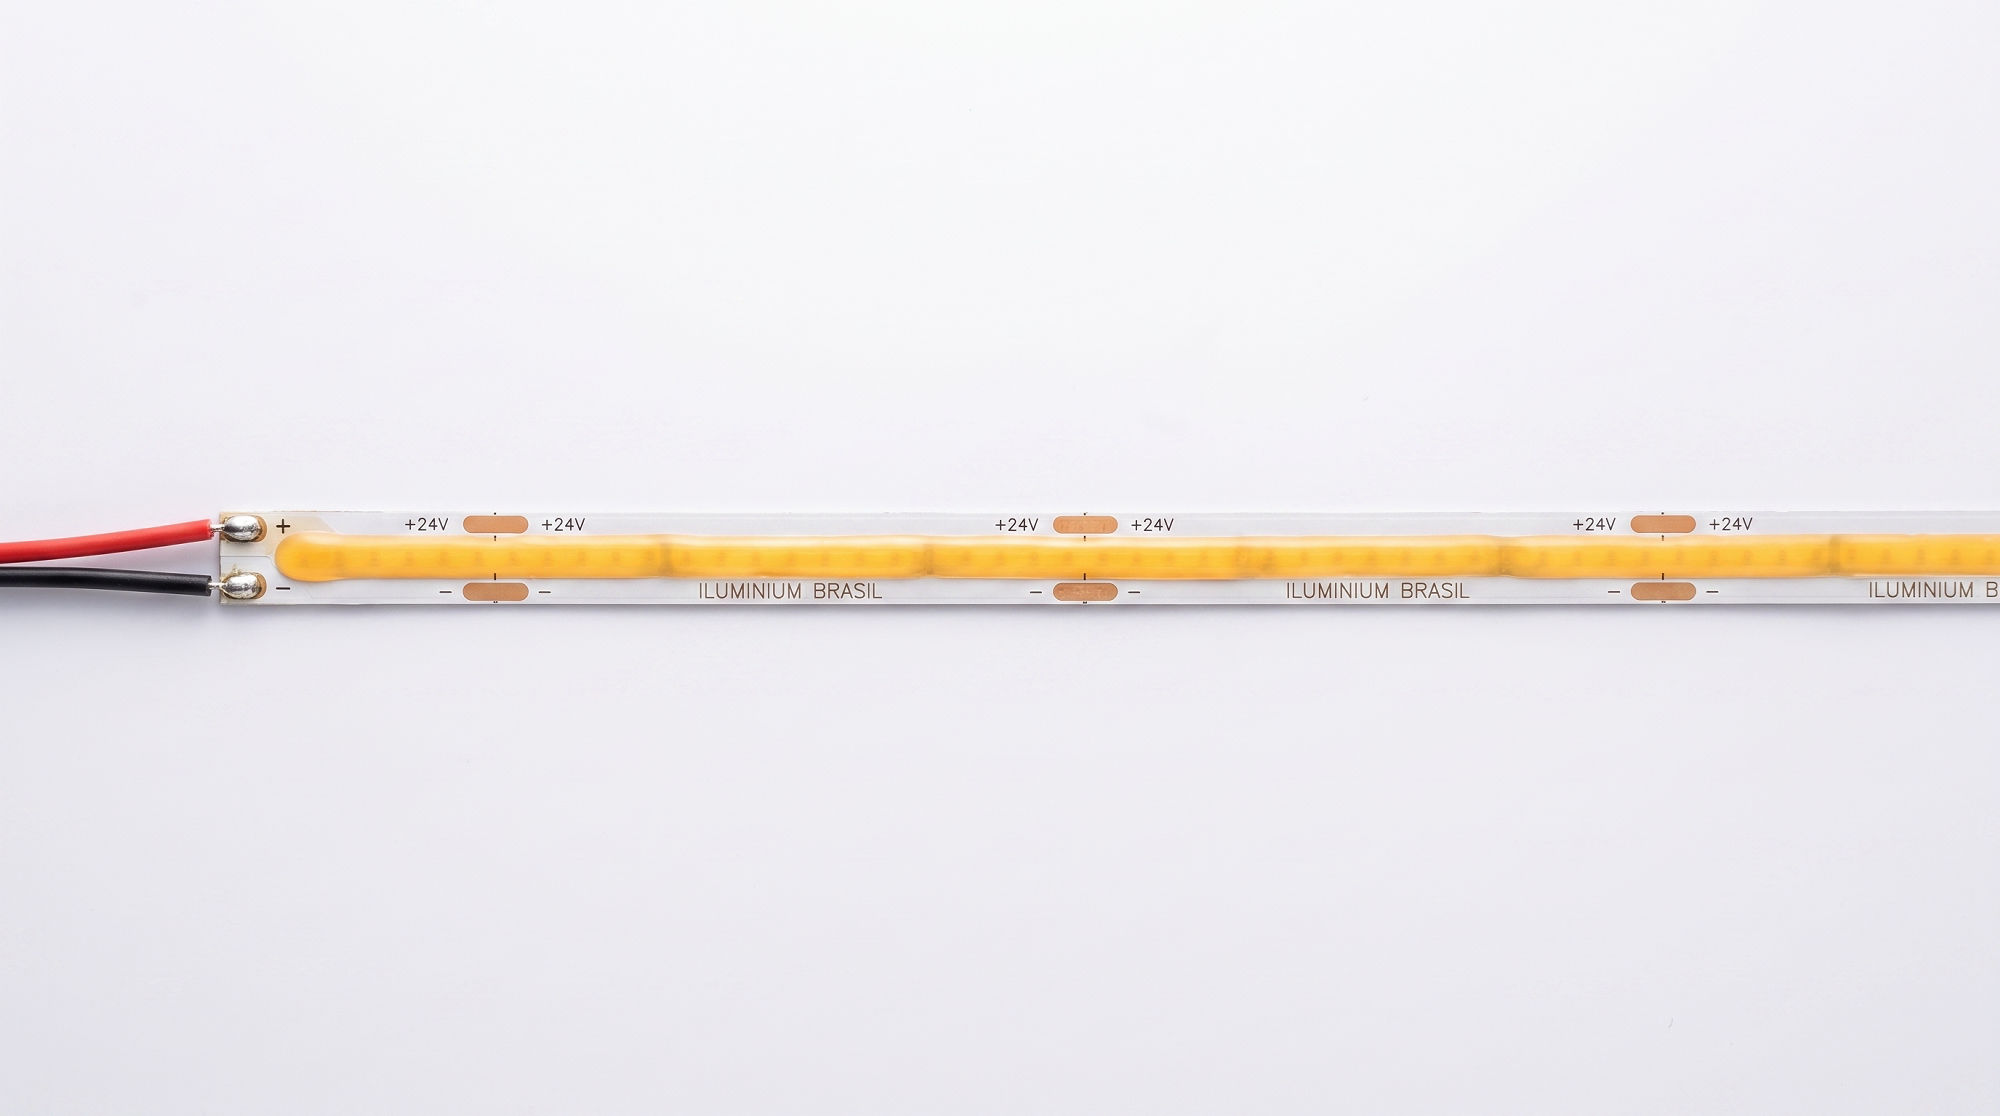
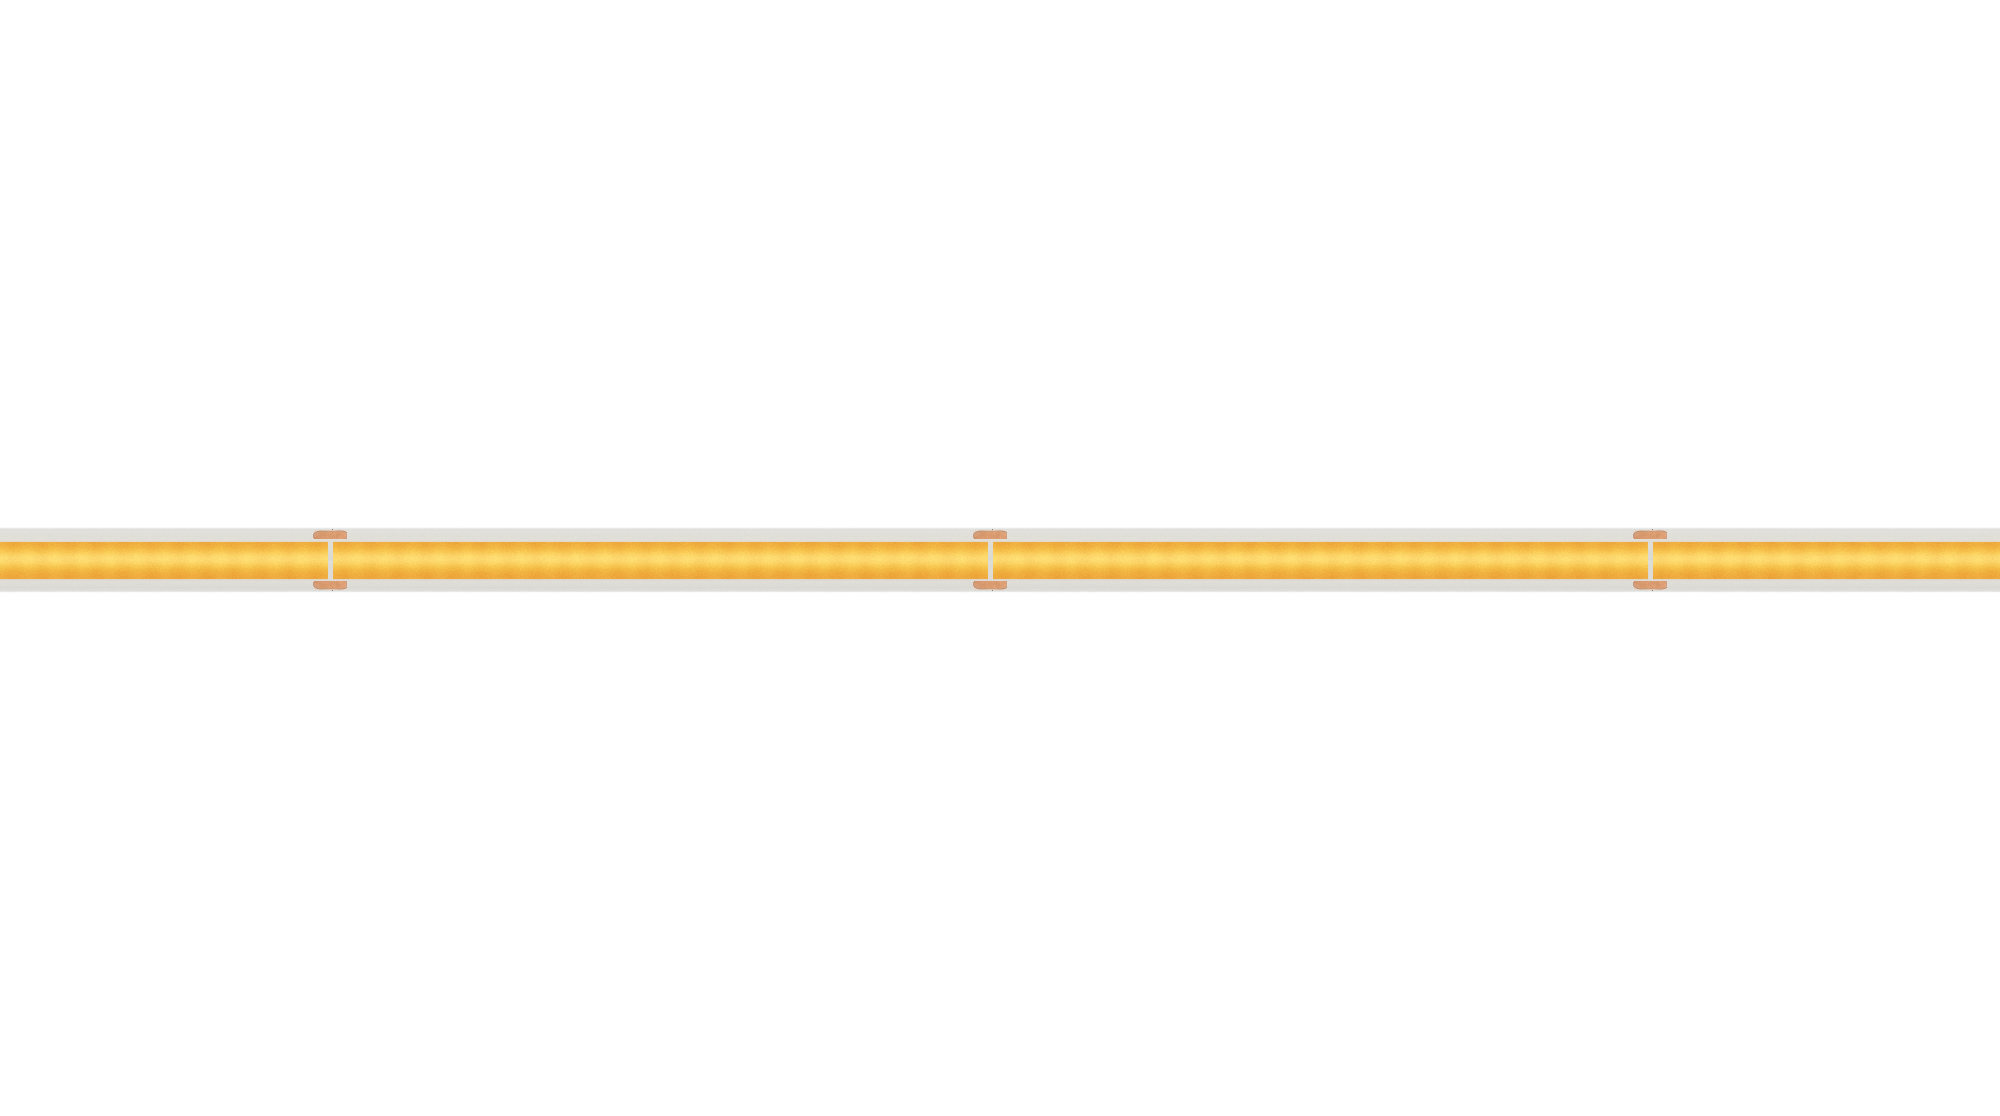
Fitas COB e de tomada: fotos refeitas na medida certa
Prisma (COB 3mm), Cristal (COB 5mm), Fulgor (120 LEDs 10mm) e Íris
(COB 10mm) montadas com peças da foto real do fornecedor, na largura
exata e na mesma escala das fitas 12V (LEDs a cada 8,3mm na Fulgor).
Sem tensão impressa nas de tomada (têm versão 110V e 220V). Cards da
lista no mesmo fundo cinza das outras fitas.

diff --git a/produtos/fitas-led.html b/produtos/fitas-led.html
@@ -210,7 +210,7 @@
       <a class="produto-card" href="fitas-led/3mm-cob.html">
         <div class="produto-media">
           
-          <img class="produto-photo crop-right" src="../images/produto-fita-3mm-cob.jpeg" alt="Fita LED 3mm COB" loading="lazy">
+          <img class="produto-photo" src="../images/produto-fita-3mm-cob-card.jpeg" alt="Fita LED 3mm COB" loading="lazy">
         </div>
         <div class="produto-body">
           <h3>Fita Prisma</h3>
@@ -221,7 +221,7 @@
       <a class="produto-card" href="fitas-led/5mm-cob.html">
         <div class="produto-media">
           
-          <img class="produto-photo crop-right" src="../images/produto-fita-5mm-cob.jpeg" alt="Fita LED 5mm COB" loading="lazy">
+          <img class="produto-photo" src="../images/produto-fita-5mm-cob-card.jpeg" alt="Fita LED 5mm COB" loading="lazy">
         </div>
         <div class="produto-body">
           <h3>Fita Cristal</h3>
@@ -240,7 +240,7 @@
       <a class="produto-card" href="fitas-led/220v-120-leds.html">
         <div class="produto-media">
           
-          <img class="produto-photo crop-right" src="../images/produto-fita-220v-120leds.jpeg" alt="Fita LED 10mm 120 LEDs/m" loading="lazy">
+          <img class="produto-photo" src="../images/produto-fita-220v-120leds-card.jpeg" alt="Fita LED 10mm 120 LEDs/m" loading="lazy">
         </div>
         <div class="produto-body">
           <h3>Fita Fulgor</h3>
@@ -251,7 +251,7 @@
       <a class="produto-card" href="fitas-led/220v-cob.html">
         <div class="produto-media">
           
-          <img class="produto-photo crop-right" src="../images/produto-fita-220v-cob.jpeg" alt="Fita LED 10mm COB" loading="lazy">
+          <img class="produto-photo" src="../images/produto-fita-220v-cob-card.jpeg" alt="Fita LED 10mm COB" loading="lazy">
         </div>
         <div class="produto-body">
           <h3>Fita Íris</h3>
